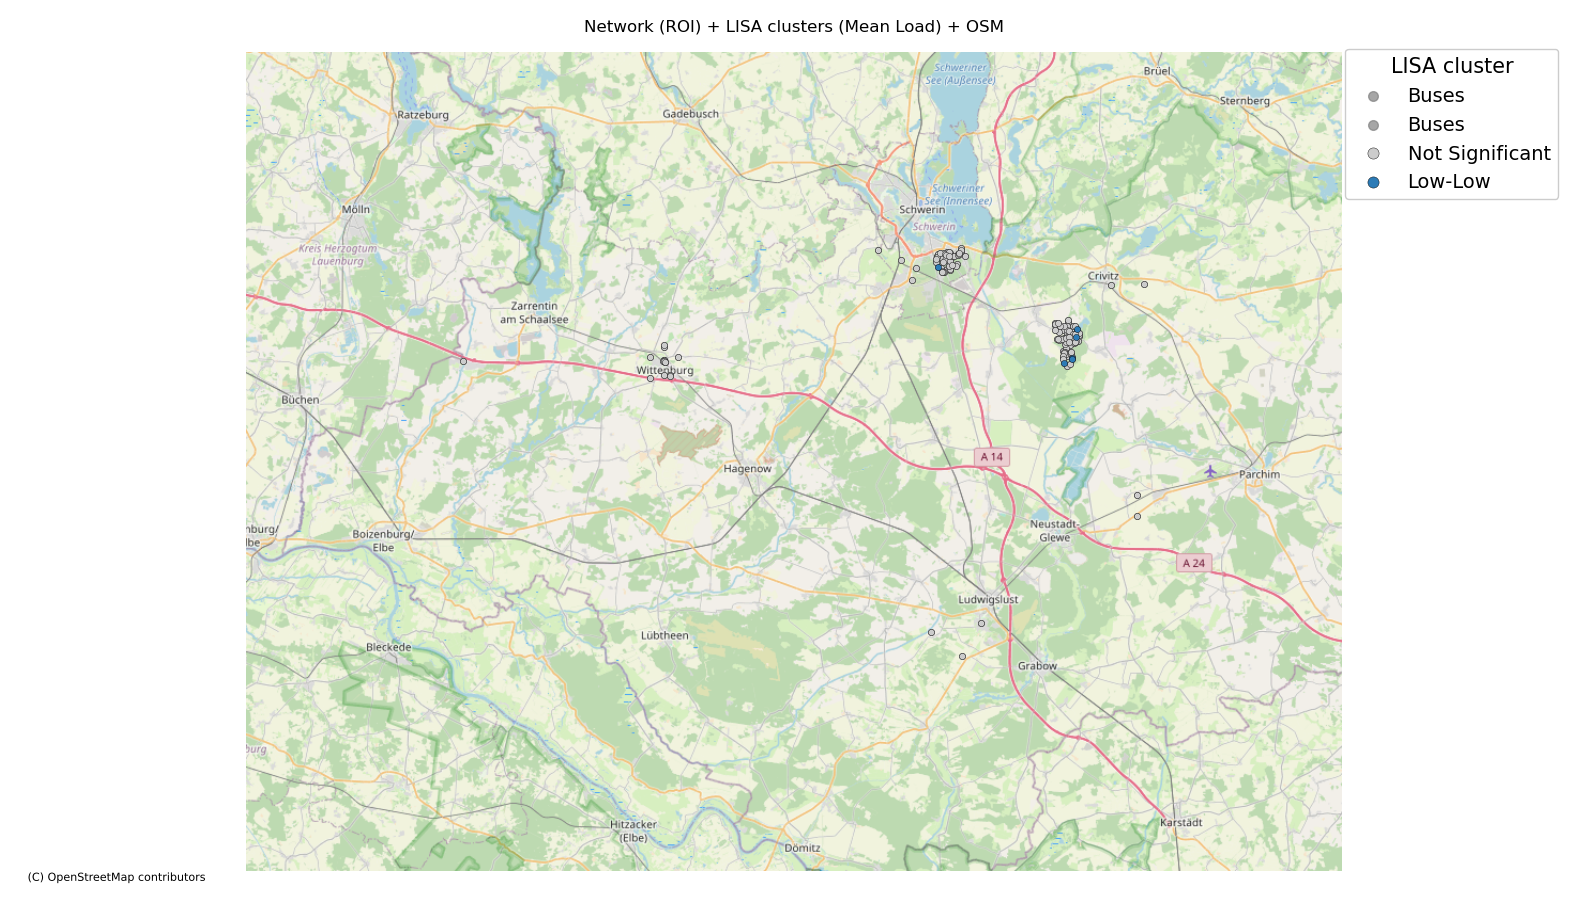
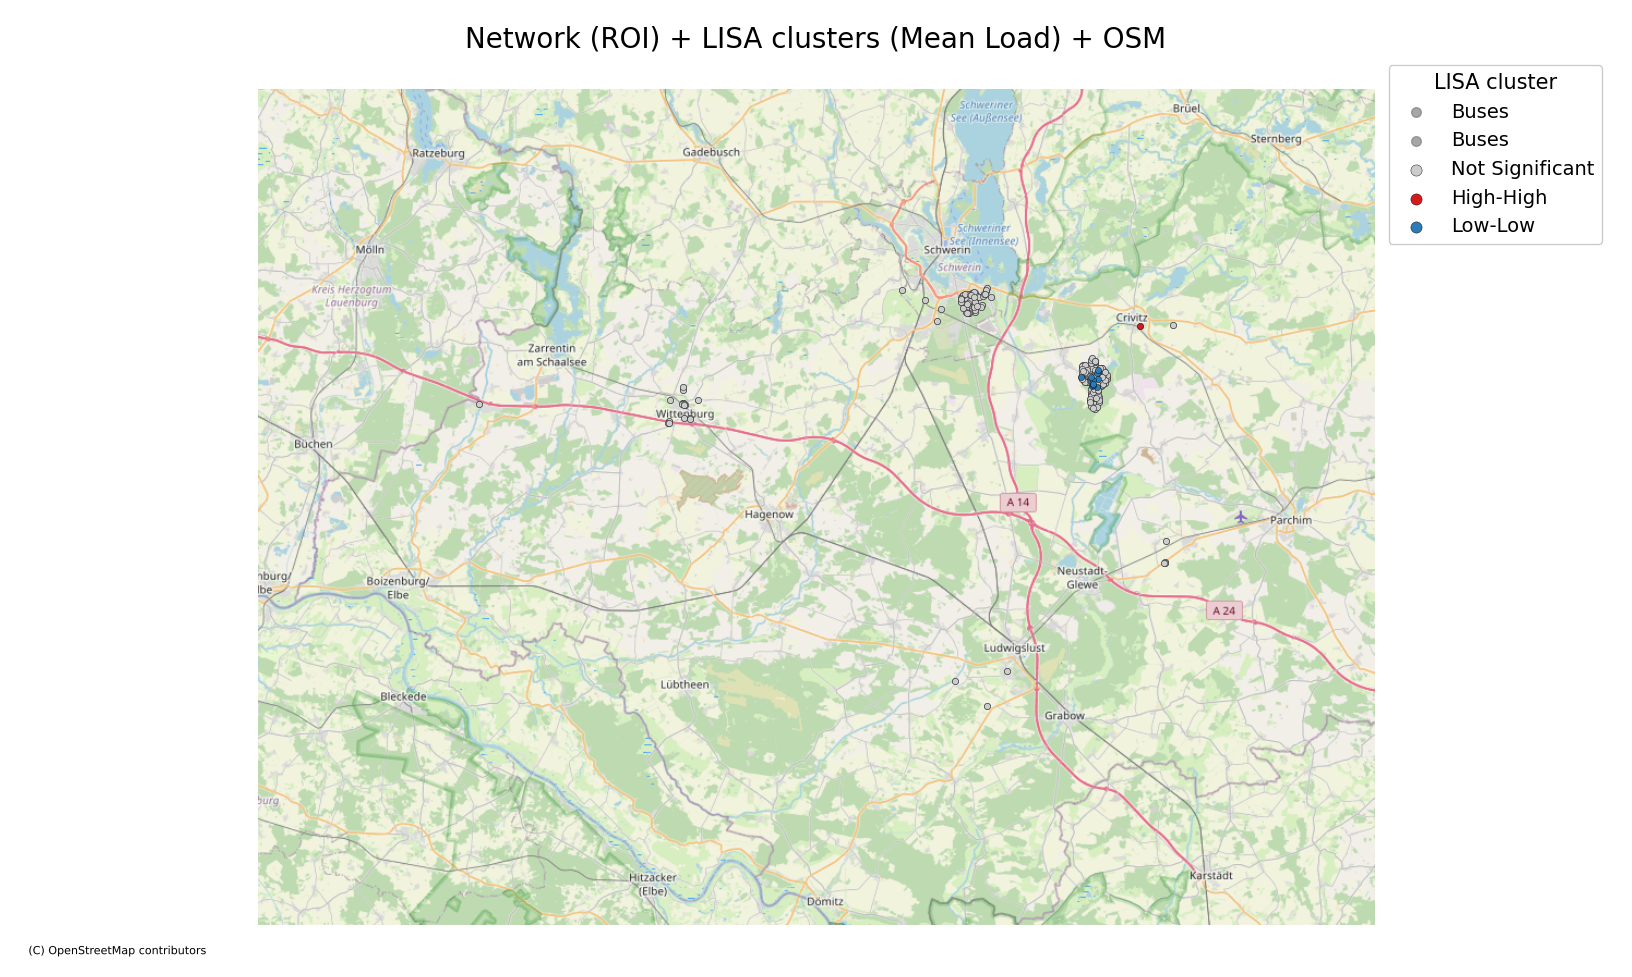
docs: refresh README and EXAMPLES Updated

Changed region(s): [[0.1543, 0.0, 0.9874, 0.9933], [0.0309, 0.9623, 0.1234, 0.9933]]

diff --git a/README.md b/README.md
@@ -135,61 +135,88 @@ print(f"Top critical buses: {analyzer._stv_results['critical_bus_ids'][:5]}")
 > **Note**: This example requires optional dependencies: `pip install geopandas shapely contextily`
 
 ```python
-import numpy as np
-import matplotlib.pyplot as plt
 import simbench
+import matplotlib.pyplot as plt
+import geopandas as gpd
+from shapely.geometry import Point
+import contextily as ctx
 
 from geoloadst import InstabilityAnalyzer
 from geoloadst.viz.maps import plot_network_topology, plot_lisa_clusters_map
 from geoloadst.viz.plots import plot_instability_histogram
 
-# Load and analyze
+# 1) Load network
 net = simbench.get_simbench_net("1-complete_data-mixed-all-1-sw")
-analyzer = InstabilityAnalyzer(
-    net, roi=(10.8, 11.7, 53.1, 53.6), time_window=(0, 48), dt_minutes=15.0
-)
+
+# 2) Small ROI + short time window (low RAM)
+analyzer = InstabilityAnalyzer(net,roi=(10.8, 11.7, 53.1, 53.6),time_window=(0, 96),dt_minutes=15.0,)
 analyzer.prepare_data()
-analyzer.compute_spatiotemporal_instability(max_buses=150, max_times=48, max_pairs=50_000)
+
+# 3) Resource-safe instability
+analyzer.compute_spatiotemporal_instability(
+        max_buses=200,
+        max_times=48,
+        max_pairs=50_000,
+)
+
+# 4) Moran/LISA 
 moran = analyzer.compute_moran_analysis(k_neighbors=8)
 
 # Plot 1: Instability histogram
-plot_instability_histogram(analyzer.instability_index, quantile=0.9)
+plot_instability_histogram(analyzer.instability_index,quantile=0.9,title="Instability distribution (ROI buses)",)
 plt.show()
 
-# Plot 2: Network + Basemap + LISA overlay (requires geopandas, contextily)
-try:
-    import geopandas as gpd
-    from shapely.geometry import Point
-    import contextily as ctx
+# Plot 2: Network + Basemap + LISA overlay
+gdf = gpd.GeoDataFrame(
+    {"bus_id": analyzer.bus_ids},
+    geometry=[Point(xy) for xy in analyzer.coords],
+    crs="EPSG:4326",
+)
 
-    gdf = gpd.GeoDataFrame(
-        {"bus_id": analyzer.bus_ids},
-        geometry=[Point(xy) for xy in analyzer.coords],
-        crs="EPSG:4326",
-    )
-    gdf_3857 = gdf.to_crs(epsg=3857)
-    coords_3857 = np.column_stack([gdf_3857.geometry.x, gdf_3857.geometry.y])
+gdf_3857 = gdf.to_crs(epsg=3857)
 
-    fig, ax = plt.subplots(figsize=(12, 8))
-    xmin, ymin, xmax, ymax = gdf_3857.total_bounds
-    padx, pady = (xmax - xmin) * 0.05, (ymax - ymin) * 0.05
-    ax.set_xlim(xmin - padx, xmax + padx)
-    ax.set_ylim(ymin - pady, ymax + pady)
+coords_3857 = (
+    gdf_3857.geometry.x.to_numpy(),
+    gdf_3857.geometry.y.to_numpy(),
+)
+coords_3857 = list(zip(coords_3857[0], coords_3857[1]))  
+import numpy as np
+coords_3857 = np.asarray(coords_3857)
 
-    ctx.add_basemap(ax, source=ctx.providers.OpenStreetMap.Mapnik, zoom="auto")
-    plot_network_topology(net=net, bus_ids=analyzer.bus_ids, coords=coords_3857, ax=ax, title=None)
-    plot_lisa_clusters_map(
-        analyzer.bus_ids, coords_3857, moran["clusters_mean_load"],
-        net=None, ax=ax, title="LISA clusters + OSM", show_lines=False
-    )
-    ax.set_axis_off()
-    plt.tight_layout()
-    plt.show()
-except ImportError as e:
-    print(f"Basemap example skipped (missing dependency): {e}")
+fig, ax = plt.subplots(figsize=(12, 8))
+
+# 1) Basemap
+xmin, ymin, xmax, ymax = gdf_3857.total_bounds
+padx = (xmax - xmin) * 0.05
+pady = (ymax - ymin) * 0.05
+ax.set_xlim(xmin - padx, xmax + padx)
+ax.set_ylim(ymin - pady, ymax + pady)
+
+ctx.add_basemap(
+    ax,
+    source=ctx.providers.OpenStreetMap.Mapnik,
+    zoom="auto",
+)
+
+# 2)  (Topology)  basemap
+plot_network_topology(net=net,bus_ids=analyzer.bus_ids,coords=coords_3857,ax=ax,title="Network (ROI) + LISA clusters (Mean Load) + OSM",)
+
+# 3) LISA clusters overlay 
+plot_lisa_clusters_map(analyzer.bus_ids,coords_3857,moran["clusters_mean_load"],net=None,ax=ax,title=None,show_lines=False,)
+
+# 4) Legend 
+handles, labels = ax.get_legend_handles_labels()
+if handles:
+    ax.legend(handles, labels, title="LISA cluster",fontsize=14,title_fontsize=15,markerscale=1.8,framealpha=1,loc="upper right",)
+
+ax.set_axis_off()
+plt.tight_layout()
+plt.show()
+
 ```
 
 - Result:
+![LISA clusters example](docs/images/ROI.png)
 ![LISA clusters example](docs/images/LISA.png)
 
 ## Memory Notes / RAM Warning
